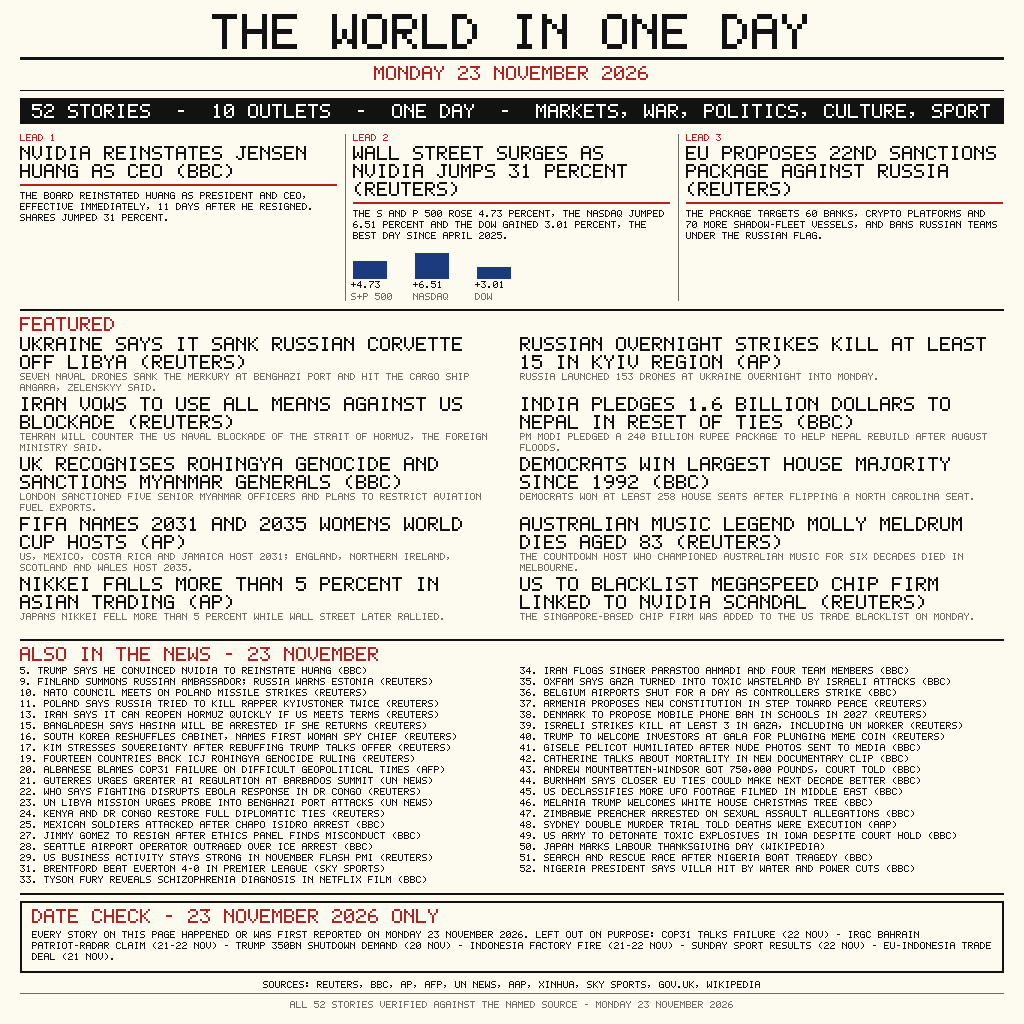
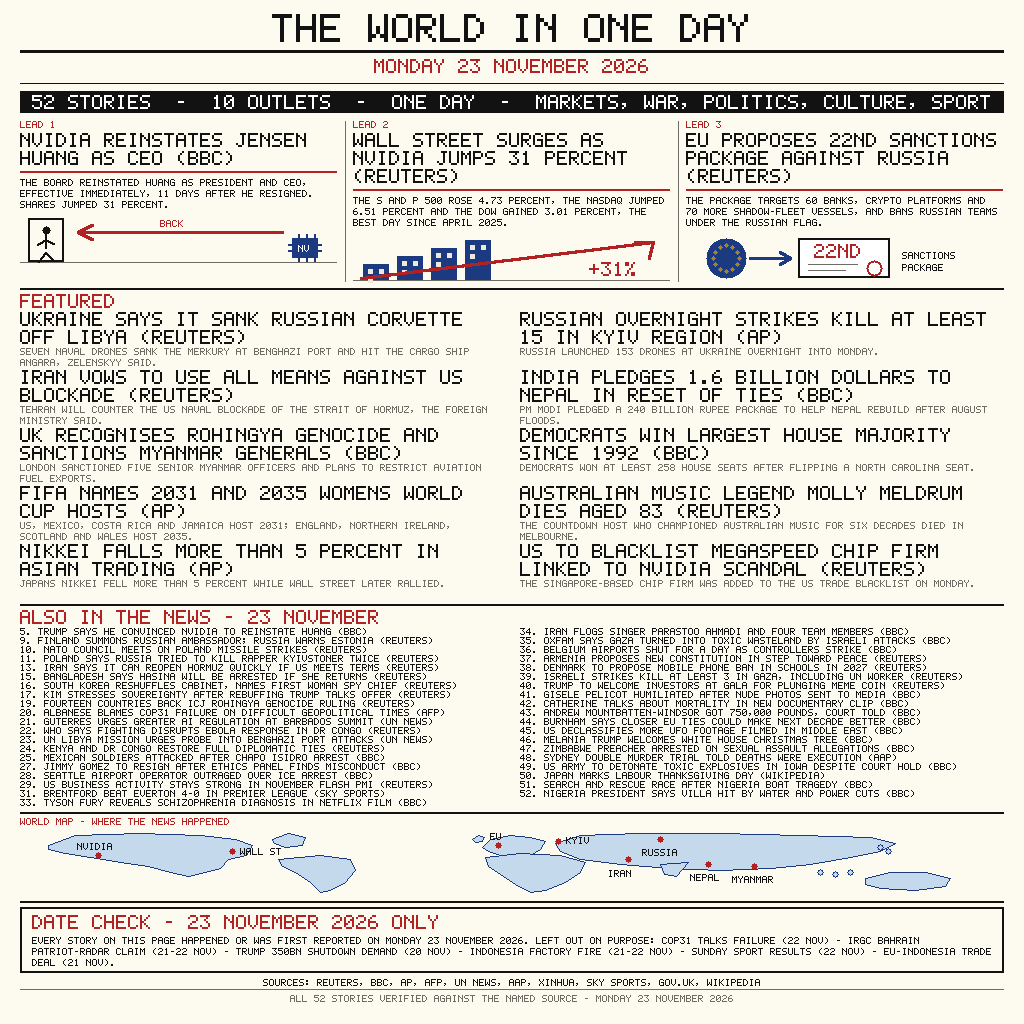
Rev1: hand-drawn illustrations for the 3 leads + world map (52 verified stories)

Changed region(s): [[0.0, 0.0, 1.0, 1.0]]

diff --git a/main.py b/main.py
@@ -11,6 +11,7 @@ Run: python3 main.py
 Writes entry.png (1024x1024) to $MAKEFUN_OUTPUT_DIR or the current dir.
 """
 
+import math
 import os
 import struct
 import zlib
@@ -25,6 +26,7 @@ GREY = (110, 108, 100)
 LIGHT = (238, 233, 220)
 WHITE = (255, 255, 255)
 GOLD = (176, 128, 20)
+MAPFILL = (196, 218, 236)
 
 # ---------------------------------------------------------------- font
 # 5x7 bitmap glyphs, one row per int, bit 4 = leftmost column.
@@ -158,6 +160,68 @@ class Canvas:
         self.hline(x, y + h - thick, w, color, thick)
         self.vline(x, y, h, color, thick)
         self.vline(x + w - thick, y, h, color, thick)
+
+    def line(self, x0, y0, x1, y1, color, thick=1):
+        """Bresenham line."""
+        dx = abs(x1 - x0)
+        dy = -abs(y1 - y0)
+        sx = 1 if x0 < x1 else -1
+        sy = 1 if y0 < y1 else -1
+        err = dx + dy
+        while True:
+            if thick == 1:
+                self.set(x0, y0, color)
+            else:
+                self.rect(x0 - thick // 2, y0 - thick // 2,
+                          thick, thick, color)
+            if x0 == x1 and y0 == y1:
+                break
+            e2 = 2 * err
+            if e2 >= dy:
+                err += dy
+                x0 += sx
+            if e2 <= dx:
+                err += dx
+                y0 += sy
+
+    def poly(self, pts, color):
+        """Scanline fill of a polygon (even-odd rule)."""
+        if len(pts) < 3:
+            return
+        ys = [p[1] for p in pts]
+        n = len(pts)
+        for y in range(min(ys), max(ys) + 1):
+            xs = []
+            for i in range(n):
+                x0, y0 = pts[i]
+                x1, y1 = pts[(i + 1) % n]
+                if y0 == y1:
+                    continue
+                if (y0 <= y < y1) or (y1 <= y < y0):
+                    xs.append(x0 + (y - y0) * (x1 - x0) / (y1 - y0))
+            xs.sort()
+            for i in range(0, len(xs) - 1, 2):
+                self.hline(int(xs[i]), y,
+                           int(xs[i + 1]) - int(xs[i]) + 1, color)
+
+    def polyline(self, pts, color, thick=1):
+        """Closed polygon outline."""
+        n = len(pts)
+        for i in range(n):
+            x0, y0 = pts[i]
+            x1, y1 = pts[(i + 1) % n]
+            self.line(x0, y0, x1, y1, color, thick)
+
+    def circle(self, cx, cy, r, color):
+        """Filled circle."""
+        for y in range(cy - r, cy + r + 1):
+            dx = int((r * r - (y - cy) ** 2) ** 0.5)
+            self.hline(cx - dx, y, 2 * dx + 1, color)
+
+    def ring(self, cx, cy, r, color, thick=1, inner=WHITE):
+        """Circle outline: filled disc, then a smaller disc of `inner`."""
+        self.circle(cx, cy, r, color)
+        self.circle(cx, cy, r - thick, inner)
 
     def text(self, s, x, y, scale, color):
         cx = x
@@ -300,6 +364,140 @@ DATE_CHECK = ("EVERY STORY ON THIS PAGE HAPPENED OR WAS FIRST REPORTED ON "
               "(22 NOV) - EU-INDONESIA TRADE DEAL (21 NOV).")
 
 
+# ---------------------------------------------------------------- illustrations
+# Hand-drawn scenes for the three lead stories and a stylized world map.
+# All shapes are code-drawn lines/polygons/circles: no photos, no PIL,
+# no network. Written fresh for this revision; each scene is 48 px tall.
+
+def draw_lead1(c, x, y, w):
+    """Nvidia CEO returns: a figure walks back through an office door,
+    a red BACK arrow points in, a chip waits on the right."""
+    c.hline(x, y + 46, w, GREY, 1)
+    # open doorway, left
+    c.box(x + 8, y + 2, 36, 44, INK, 2)
+    # figure walking in through the door
+    hx, hy = x + 26, y + 14
+    c.circle(hx, hy, 4, INK)
+    c.line(hx, hy + 5, hx, hy + 18, INK, 2)
+    c.line(hx, hy + 23, hx - 7, hy + 32, INK, 2)
+    c.line(hx, hy + 23, hx + 7, hy + 30, INK, 2)
+    c.line(hx, hy + 10, hx - 8, hy + 15, INK, 2)
+    c.line(hx, hy + 10, hx + 8, hy + 14, INK, 2)
+    # red BACK arrow pointing left into the door
+    c.line(x + 262, y + 16, x + 58, y + 16, RED, 3)
+    c.line(x + 58, y + 16, x + 72, y + 9, RED, 3)
+    c.line(x + 58, y + 16, x + 72, y + 23, RED, 3)
+    c.text("BACK", x + 140, y + 4, 1, RED)
+    # chip, right
+    c.rect(x + 272, y + 22, 26, 20, BLUE)
+    for px in (x + 278, x + 286, x + 294):
+        c.vline(px, y + 18, 4, BLUE, 2)
+        c.vline(px, y + 42, 4, BLUE, 2)
+    c.hline(x + 268, y + 28, 4, BLUE, 2)
+    c.hline(x + 268, y + 34, 4, BLUE, 2)
+    c.hline(x + 298, y + 28, 4, BLUE, 2)
+    c.hline(x + 298, y + 34, 4, BLUE, 2)
+    c.text("NV", x + 278, y + 29, 1, WHITE)
+
+
+def draw_lead2(c, x, y, w):
+    """Wall Street surges: a rising skyline and a red arrow climbing
+    past it, +31% at the top."""
+    c.hline(x, y + 46, w, GREY, 1)
+    # skyline, buildings of rising height
+    builds = [(10, 30, 26, 16), (44, 22, 26, 24), (78, 14, 26, 32),
+              (112, 6, 26, 40)]
+    for bx, by, bw, bh in builds:
+        c.rect(x + bx, y + by, bw, bh, BLUE)
+        c.rect(x + bx + 5, y + by + 5, 5, 5, LIGHT)
+        c.rect(x + bx + 16, y + by + 5, 5, 5, LIGHT)
+        c.rect(x + bx + 5, y + by + 14, 5, 5, LIGHT)
+    # rising arrow over the skyline
+    c.line(x + 8, y + 44, x + 300, y + 8, RED, 3)
+    c.line(x + 300, y + 8, x + 282, y + 8, RED, 3)
+    c.line(x + 300, y + 8, x + 296, y + 24, RED, 3)
+    c.text("+31%", x + 236, y + 28, 2, RED)
+
+
+def draw_lead3(c, x, y, w):
+    """EU sanctions package: a blue circle of gold stars, an arrow to
+    a stamped document marked 22ND."""
+    # EU circle of stars
+    cx, cy = x + 40, y + 24
+    c.circle(cx, cy, 20, BLUE)
+    for k in range(12):
+        ang = math.radians(k * 30)
+        sx = cx + int(13 * math.cos(ang))
+        sy = cy + int(13 * math.sin(ang))
+        c.circle(sx, sy, 2, GOLD)
+    # arrow from the circle to the document
+    c.line(x + 64, y + 24, x + 104, y + 24, BLUE, 3)
+    c.line(x + 104, y + 24, x + 94, y + 18, BLUE, 3)
+    c.line(x + 104, y + 24, x + 94, y + 30, BLUE, 3)
+    # document
+    c.rect(x + 112, y + 4, 92, 40, WHITE)
+    c.box(x + 112, y + 4, 92, 40, INK, 2)
+    c.text("22ND", x + 128, y + 10, 2, RED)
+    c.hline(x + 122, y + 30, 50, GREY, 1)
+    c.hline(x + 122, y + 36, 38, GREY, 1)
+    # stamp ring, bottom right of the document
+    c.ring(x + 188, y + 34, 8, RED, 2, WHITE)
+    # caption
+    c.text("SANCTIONS", x + 216, y + 18, 1, INK)
+    c.text("PACKAGE", x + 216, y + 30, 1, INK)
+
+
+# Stylized world map: simplified continent polygons in a 984x64 box.
+# Positions are relative, not a precise projection.
+MAP_CONTINENTS = [
+    [(28, 16), (55, 6), (120, 4), (180, 6), (215, 10), (232, 16),
+     (226, 26), (208, 30), (200, 38), (185, 42), (168, 46), (150, 42),
+     (128, 36), (100, 32), (70, 28), (45, 24), (28, 20)],
+    [(252, 10), (268, 4), (285, 8), (282, 16), (265, 18), (254, 14)],
+    [(258, 30), (300, 26), (330, 30), (335, 40), (325, 52), (310, 60),
+     (300, 62), (290, 52), (275, 42), (262, 36)],
+    [(452, 10), (458, 6), (464, 8), (462, 12), (455, 13)],
+    [(462, 18), (470, 10), (490, 6), (510, 8), (525, 12), (520, 20),
+     (510, 26), (495, 28), (480, 26), (468, 22)],
+    [(465, 28), (500, 24), (540, 26), (565, 32), (560, 42), (545, 52),
+     (525, 60), (510, 62), (495, 54), (480, 44), (468, 36)],
+    [(535, 14), (560, 6), (620, 4), (700, 4), (780, 6), (850, 8),
+     (875, 14), (860, 22), (830, 28), (790, 34), (750, 38), (700, 40),
+     (650, 38), (600, 34), (560, 30), (540, 22)],
+    [(640, 34), (668, 32), (656, 46), (644, 44)],
+    [(845, 48), (870, 42), (905, 42), (930, 48), (925, 56), (895, 60),
+     (860, 58), (845, 54)],
+]
+MAP_ISLANDS = [(800, 42), (815, 44), (830, 42), (860, 18), (868, 22)]
+# (u, v, label, label_x, label_y) - marker dots + labels
+MAP_MARKERS = [
+    (78, 26, "NVIDIA", 57, 14),
+    (212, 22, "WALL ST", 220, 19),
+    (478, 16, "EU", 470, 4),
+    (538, 12, "KYIV", 546, 8),
+    (640, 10, "RUSSIA", 622, 20),
+    (608, 30, "IRAN", 588, 40),
+    (688, 34, "NEPAL", 670, 44),
+    (734, 36, "MYANMAR", 712, 46),
+]
+
+
+def draw_world_map(c, x, y, w, h):
+    """Stylized continents + red markers where the big stories happened."""
+    sx = w / 984.0
+    sy = h / 64.0
+    for poly in MAP_CONTINENTS:
+        pts = [(x + int(u * sx), y + int(v * sy)) for u, v in poly]
+        c.poly(pts, MAPFILL)
+        c.polyline(pts, BLUE, 1)
+    for u, v in MAP_ISLANDS:
+        c.ring(x + int(u * sx), y + int(v * sy), 3, BLUE, 1, MAPFILL)
+    for u, v, label, lx, ly in MAP_MARKERS:
+        mx, my = x + int(u * sx), y + int(v * sy)
+        c.circle(mx, my, 3, RED)
+        c.text(label, x + int(lx * sx), y + int(ly * sy), 1, INK)
+
+
 # ---------------------------------------------------------------- layout
 def draw(c):
     MX = 20                      # side margin
@@ -307,8 +505,8 @@ def draw(c):
 
     # ---- masthead
     y = 14
-    c.text_center("THE WORLD IN ONE DAY", W // 2, y, 5, INK)
-    y += 5 * 7 + 8
+    c.text_center("THE WORLD IN ONE DAY", W // 2, y, 4, INK)
+    y += 4 * 7 + 8
     c.hline(MX, y, CW, INK, 3)
     y += 9
     c.text_center("MONDAY 23 NOVEMBER 2026", W // 2, y, 2, RED)
@@ -317,11 +515,11 @@ def draw(c):
 
     # ---- stat strip
     y += 8
-    c.rect(MX, y, CW, 26, INK)
+    c.rect(MX, y, CW, 22, INK)
     c.text_center("52 STORIES  -  10 OUTLETS  -  ONE DAY  -  "
                   "MARKETS, WAR, POLITICS, CULTURE, SPORT",
-                  W // 2, y + 6, 2, WHITE)
-    y += 26 + 10
+                  W // 2, y + 4, 2, WHITE)
+    y += 22 + 8
 
     # ---- leads: three columns
     lead_top = y
@@ -342,33 +540,30 @@ def draw(c):
         for line in wrap(body, col_w, 1):
             c.text(line, x, cy, 1, INK)
             cy += 11
-        if i == 1:
-            # Small bar chart: Monday index moves, percent.
-            cy += 6
-            bars = [("S+P 500", 4.73), ("NASDAQ", 6.51), ("DOW", 3.01)]
-            bx = x
-            for name, val in bars:
-                bh = int(val * 4)
-                c.rect(bx, cy + 30 - bh, 34, bh, BLUE)
-                c.text("+%.2f" % val, bx - 2, cy + 32, 1, INK)
-                c.text(name, bx - 2, cy + 44, 1, GREY)
-                bx += 62
-            cy += 52
+        # Hand-drawn illustration for the lead story (48 px tall).
+        cy += 4
+        if i == 0:
+            draw_lead1(c, x, cy, col_w)
+        elif i == 1:
+            draw_lead2(c, x, cy, col_w)
+        else:
+            draw_lead3(c, x, cy, col_w)
+        cy += 48
         lead_bottom = max(lead_bottom, cy)
     # vertical dividers between lead columns
     for i in (1, 2):
         dx = MX + i * (col_w + 16) - 8
         c.vline(dx, lead_top, lead_bottom - lead_top, GREY, 1)
-    y = lead_bottom + 8
+    y = lead_bottom + 6
     c.hline(MX, y, CW, INK, 2)
-    y += 8
+    y += 6
 
     # ---- featured: two columns, five rows each
     c.text("FEATURED", MX, y, 2, RED)
-    y += 20
+    y += 18
     feat_top = y
     fcol_w = (CW - 16) // 2
-    row_h = 60
+    row_h = 58
     for idx, (head, body) in enumerate(FEATURED):
         col = idx % 2
         row = idx // 2
@@ -386,11 +581,11 @@ def draw(c):
             cy += 11
     y = feat_top + 5 * row_h + 2
     c.hline(MX, y, CW, INK, 2)
-    y += 8
+    y += 6
 
     # ---- ALSO list: two columns, one line per story
     c.text("ALSO IN THE NEWS - 23 NOVEMBER", MX, y, 2, RED)
-    y += 20
+    y += 18
     also_top = y
     acol_w = (CW - 16) // 2
     left = ALSO[:20]
@@ -398,28 +593,36 @@ def draw(c):
     for line in ALSO:
         assert text_width(line, 1) <= acol_w, "ALSO line too long: %r" % line
     for i, line in enumerate(left):
-        c.text(line, MX, also_top + i * 11, 1, INK)
+        c.text(line, MX, also_top + i * 9, 1, INK)
     for i, line in enumerate(right):
-        c.text(line, MX + acol_w + 16, also_top + i * 11, 1, INK)
-    y = also_top + 20 * 11 + 6
+        c.text(line, MX + acol_w + 16, also_top + i * 9, 1, INK)
+    y = also_top + 20 * 9 + 4
     c.hline(MX, y, CW, INK, 2)
-    y += 8
+    y += 6
+
+    # ---- world map: stylized continents + markers for the big stories
+    c.text("WORLD MAP - WHERE THE NEWS HAPPENED", MX, y, 1, RED)
+    y += 11
+    draw_world_map(c, MX, y, CW, 66)
+    y += 66 + 6
+    c.hline(MX, y, CW, INK, 2)
+    y += 6
 
     # ---- DATE CHECK box
-    box_h = 72
+    box_h = 66
     c.box(MX, y, CW, box_h, INK, 2)
     c.text("DATE CHECK - 23 NOVEMBER 2026 ONLY", MX + 12, y + 8, 2, RED)
     by = y + 30
     for line in wrap(DATE_CHECK, CW - 24, 1):
         c.text(line, MX + 12, by, 1, INK)
         by += 11
-    y += box_h + 8
+    y += box_h + 6
 
     # ---- sources + footer
     c.text_center(SOURCES, W // 2, y, 1, INK)
-    y += 12
+    y += 10
     c.hline(MX, y, CW, GREY, 1)
-    y += 8
+    y += 6
     c.text_center("ALL 52 STORIES VERIFIED AGAINST THE NAMED SOURCE - "
                   "MONDAY 23 NOVEMBER 2026", W // 2, y, 1, GREY)
     y += 11
